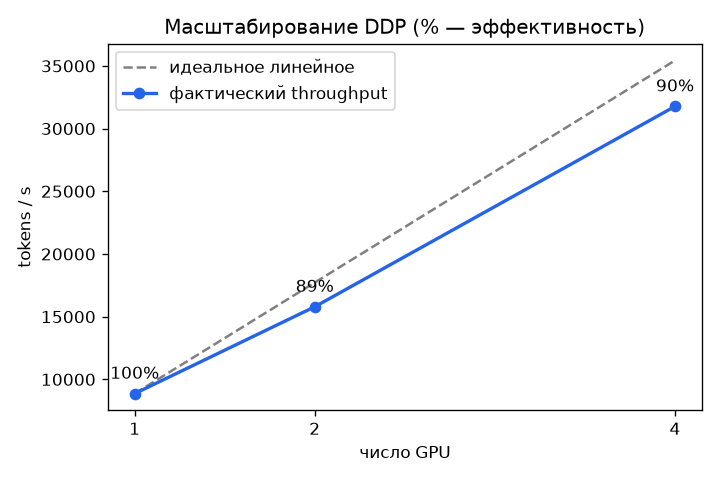
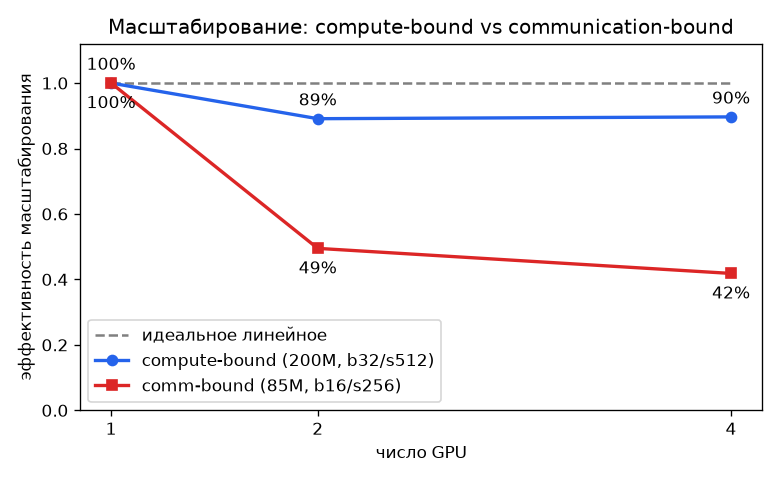
fix(repro): self-documenting конфиги + provenance CSV, чтобы числа не читались как противоречие
- run_l2.sh: оба свипа (comm-bound 85M, compute-bound 200M) закреплены явно ->
  bash run_l2.sh воспроизводит ровно числа README (раньше брал дефолты 85M).
- scaling.py печатает num_params + пишет колонки params/config в CSV.
- CSV убраны из .gitignore и закоммичены (scaling_compute/scaling_comm/optim) —
  доказательная база README.
- plot.py: две кривые (compute vs comm) -> картинка подтверждает тезис «две кривые».
- README: конфиг+params под каждой таблицей; пояснение, что 21.4 ГБ — это активации
  (не веса ~3.2 ГБ); декомпозиция FSDP-выигрыша на 3 фактора (шардинг+bf16+checkpointing);
  optim-лестница помечена как 85M (а не 200M); 31825 vs 31771 поясн. как разные прогоны.

diff --git a/bench/plot.py b/bench/plot.py
@@ -1,7 +1,8 @@
-"""Рисует кривую масштабирования из bench/scaling.csv -> bench/scaling.png.
+"""Рисует эффективность масштабирования: compute-bound vs comm-bound, в один график.
 
-Фактический throughput vs идеальное линейное ускорение; над точками —
-эффективность масштабирования. Запуск:  python bench/plot.py
+Читает bench/scaling_compute.csv (обязательно) и bench/scaling_comm.csv (если есть),
+строит эффективность = tok/с(N) / (N · tok/с(1)) против идеальной линии 1.0.
+Запуск:  python bench/plot.py
 """
 from __future__ import annotations
 
@@ -12,38 +13,52 @@ from pathlib import Path
 ROOT = Path(__file__).parent.parent
 
 
-def main() -> None:
-    sys.stdout.reconfigure(encoding="utf-8")
-    csv_path = ROOT / "bench" / "scaling.csv"
-    if not csv_path.exists():
-        raise SystemExit("Нет bench/scaling.csv — сначала прогони bench/scaling.py под torchrun")
-
-    with csv_path.open(encoding="utf-8-sig") as f:  # utf-8-sig снимает BOM, если есть
+def _load(name: str):
+    path = ROOT / "bench" / name
+    if not path.exists():
+        return None
+    with path.open(encoding="utf-8-sig") as f:  # utf-8-sig снимает BOM, если есть
         rows = sorted(csv.DictReader(f), key=lambda r: int(r["world_size"]))
     ws = [int(r["world_size"]) for r in rows]
     tps = [float(r["tokens_per_s"]) for r in rows]
-    base = tps[0]
-    ideal = [base * w for w in ws]
-    eff = [tps[i] / (ws[i] * base) for i in range(len(ws))]
+    eff = [tps[i] / (ws[i] * tps[0]) for i in range(len(ws))]
+    return ws, eff
+
+
+def main() -> None:
+    sys.stdout.reconfigure(encoding="utf-8")
+    compute = _load("scaling_compute.csv")
+    comm = _load("scaling_comm.csv")
+    if compute is None:
+        raise SystemExit("нет bench/scaling_compute.csv — сначала прогони run_l2.sh")
 
     import matplotlib
 
     matplotlib.use("Agg")
     import matplotlib.pyplot as plt
 
-    fig, ax = plt.subplots(figsize=(6, 4))
-    ax.plot(ws, ideal, "--", color="gray", label="идеальное линейное")
-    ax.plot(ws, tps, "o-", color="#2563eb", linewidth=2, label="фактический throughput")
-    for i in range(len(ws)):
-        ax.annotate(f"{eff[i] * 100:.0f}%", (ws[i], tps[i]),
-                    textcoords="offset points", xytext=(0, 9), ha="center")
+    fig, ax = plt.subplots(figsize=(6.5, 4))
+    ws = compute[0]
+    ax.plot(ws, [1.0] * len(ws), "--", color="gray", label="идеальное линейное")
+    ax.plot(compute[0], compute[1], "o-", color="#2563eb", linewidth=2,
+            label="compute-bound (200M, b32/s512)")
+    for x, y in zip(compute[0], compute[1], strict=False):
+        ax.annotate(f"{y * 100:.0f}%", (x, y), textcoords="offset points",
+                    xytext=(0, 8), ha="center")
+    if comm is not None:
+        ax.plot(comm[0], comm[1], "s-", color="#dc2626", linewidth=2,
+                label="comm-bound (85M, b16/s256)")
+        for x, y in zip(comm[0], comm[1], strict=False):
+            ax.annotate(f"{y * 100:.0f}%", (x, y), textcoords="offset points",
+                        xytext=(0, -15), ha="center")
+
     ax.set_xlabel("число GPU")
-    ax.set_ylabel("tokens / s")
+    ax.set_ylabel("эффективность масштабирования")
     ax.set_xticks(ws)
-    ax.set_title("Масштабирование DDP (% — эффективность)")
+    ax.set_ylim(0, 1.12)
+    ax.set_title("Масштабирование: compute-bound vs communication-bound")
     ax.legend()
     fig.tight_layout()
-
     out = ROOT / "bench" / "scaling.png"
     fig.savefig(out, dpi=120)
     print(f"сохранено: {out}")

diff --git a/bench/scaling.py b/bench/scaling.py
@@ -82,13 +82,15 @@ def main(warmup: int = 5) -> None:
         sys.stdout.reconfigure(encoding="utf-8")
         tps = tokens / dt
         peak = torch.cuda.max_memory_allocated() / 1e9 if cuda else 0.0
-        out = ROOT / "bench" / "scaling.csv"
+        nparams = model.num_params()
+        conf = f"L{cfg.n_layer}_E{cfg.n_embd}_b{per_rank_bs}_s{block_size}_fp32"
+        out = Path(os.environ.get("CSV_OUT", str(ROOT / "bench" / "scaling.csv")))
         header = not out.exists()
         with open(out, "a", encoding="utf-8") as f:
             if header:
-                f.write("world_size,tokens_per_s,peak_gb\n")
-            f.write(f"{world},{tps:.0f},{peak:.2f}\n")
-        print(f"world={world}  {tps:,.0f} ток/с  peak {peak:.2f} GB -> bench/scaling.csv")
+                f.write("world_size,tokens_per_s,peak_gb,params,config\n")
+            f.write(f"{world},{tps:.0f},{peak:.2f},{nparams},{conf}\n")
+        print(f"world={world}  params={nparams:,}  {conf}  {tps:,.0f} ток/с  peak {peak:.2f} GB")
     dist.destroy_process_group()
 
 